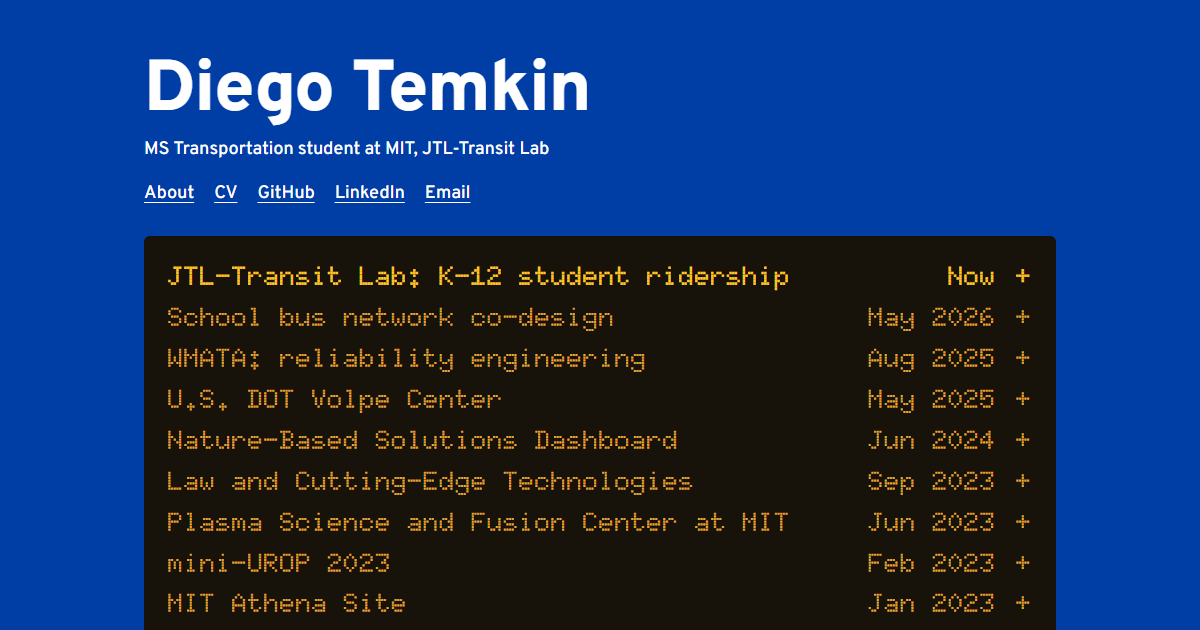
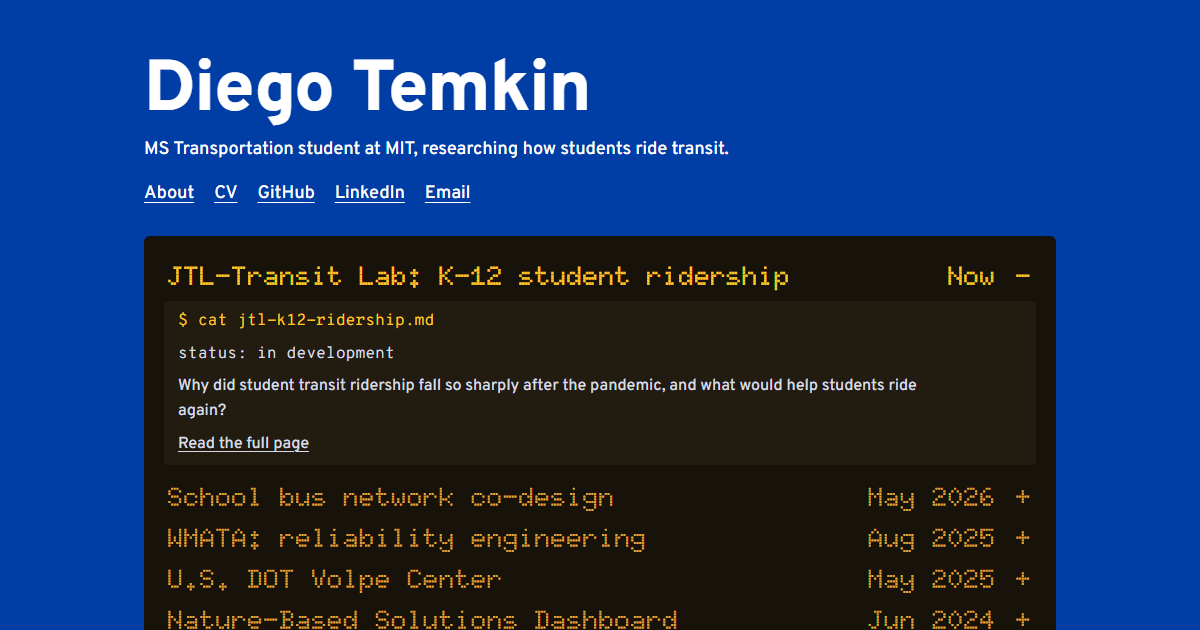
fix: lead with the research and tighten project pages
Open the top row on Home, say what the research is in the tagline, and
stop repeating the K-12 question. Hide full-page links with nothing more
to show, square the notice panels, quiet the tags, show photos uncropped,
and put the real board on the 404 page.

diff --git a/src/scripts/board.ts b/src/scripts/board.ts
@@ -52,7 +52,9 @@ function setUpBoard(board: HTMLElement) {
   }
 
   const fromHash = slugFromHash(location.hash, [...rows.keys()]);
+  const [first] = rows.keys();
   if (fromHash) open(fromHash);
+  else if (first && "openFirst" in board.dataset) setOpen(first, true);
 
   window.addEventListener("board:open", (event) => {
     const { slug } = (event as CustomEvent<{ slug: string }>).detail;

diff --git a/src/styles/global.css b/src/styles/global.css
@@ -133,7 +133,6 @@ main {
 /* A posted service notice: long text reads better here than on saturated blue. */
 .notice {
   padding: clamp(1rem, 3vw, 1.75rem);
-  border-radius: 6px;
   background: var(--white);
   color: var(--board);
 }
@@ -171,8 +170,4 @@ main {
 .prose blockquote {
   margin-inline: 1.5rem 0;
   font-style: italic;
-}
-
-.prose img {
-  border-radius: 4px;
 }

diff --git a/src/content/work/jtl-k12-ridership.md b/src/content/work/jtl-k12-ridership.md
@@ -9,4 +9,4 @@ tags:
   - Student Ridership
 ---
 
-Why did student transit ridership fall so sharply after the pandemic, and what would help students ride again? With the Chicago Transit Authority, I'm working to understand how service, reliability, fares, and family routines shape the trip to school.
+With the Chicago Transit Authority, I'm working to understand how service, reliability, fares, and family routines shape the trip to school.
